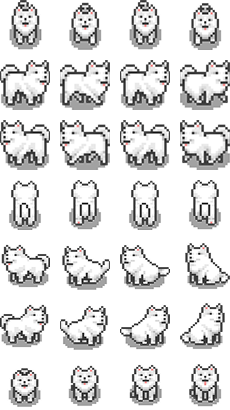
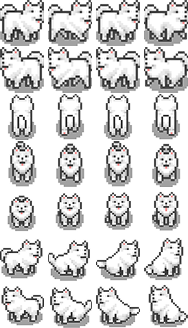
Walk animations and other dogs updated/added

diff --git a/Rendering/DogAnimation.cs b/Rendering/DogAnimation.cs
@@ -8,9 +8,10 @@ namespace DoggyLife.Rendering;
 public class DogAnimation
 {
     private SKBitmap _spritesheet;
-    private readonly int _spriteWidth = 50;
-    private readonly int _spriteHeight = 50;
-    private readonly int _spriteSpacing = 10;
+    private readonly int _spriteWidth = 44;
+    private readonly int _spriteHeight = 46;
+    private readonly int _spriteHorizontalSpacing = 4;
+    private readonly int _spriteVerticalSpacing = 1;
     private readonly Dictionary<DogAnimationState, (int Row, int FrameCount)> _animations;
 
     public DogAnimationState _currentState = DogAnimationState.FrontSitting;
@@ -20,25 +21,25 @@ public class DogAnimation
 
     public DogAnimation()
     {
-        // Based on the exact states you specified:
-        // walking front (row 0)
-        // walking right (row 1) 
-        // walking left (row 2)
-        // walking back (row 3)
-        // sitting left (row 4)
-        // sitting right (row 5)
-        // sitting front (row 6)
+        // Updated animation order:
+        // right walking (row 0)
+        // left walking (row 1)
+        // back walking (row 2)
+        // front walking (row 3)
+        // front sitting (row 4)
+        // right sitting (row 5)
+        // left sitting (row 6)
 
         _animations = new Dictionary<DogAnimationState, (int Row, int FrameCount)>
             {
-                // Map animations to match your exact states in order
-                { DogAnimationState.FrontWalking, (0, 4) },   // walking front
-                { DogAnimationState.RightWalking, (1, 4) },   // walking right 
-                { DogAnimationState.LeftWalking, (2, 4) },    // walking left
-                { DogAnimationState.BackWalking, (3, 4) },    // walking back
-                { DogAnimationState.LeftSitting, (4, 4) },   // sitting left
-                { DogAnimationState.RightSitting, (5, 4) },  // sitting right
-                { DogAnimationState.FrontSitting, (6, 4) },  // sitting front
+                // Map animations to match your updated order
+                { DogAnimationState.RightWalking, (0, 4) },   // right walking
+                { DogAnimationState.LeftWalking, (1, 4) },    // left walking
+                { DogAnimationState.BackWalking, (2, 4) },    // back walking
+                { DogAnimationState.FrontWalking, (3, 4) },   // front walking
+                { DogAnimationState.FrontSitting, (4, 4) },   // front sitting
+                { DogAnimationState.RightSitting, (5, 4) },   // right sitting
+                { DogAnimationState.LeftSitting, (6, 4) },    // left sitting
             };
     }
 
@@ -88,10 +89,10 @@ public class DogAnimation
 
         // Calculate source rectangle (from the spritesheet)
         var sourceRect = new SKRectI(
-            _currentFrame * (_spriteWidth + _spriteSpacing),
-            row * (_spriteHeight + _spriteSpacing),
-            _currentFrame * (_spriteWidth + _spriteSpacing) + _spriteWidth,
-            row * (_spriteHeight + _spriteSpacing) + _spriteHeight
+            _currentFrame * (_spriteWidth + _spriteHorizontalSpacing),
+            row * (_spriteHeight + _spriteVerticalSpacing),
+            _currentFrame * (_spriteWidth + _spriteHorizontalSpacing) + _spriteWidth,
+            row * (_spriteHeight + _spriteVerticalSpacing) + _spriteHeight
         );
 
         // Calculate destination rectangle (where to draw on canvas)
